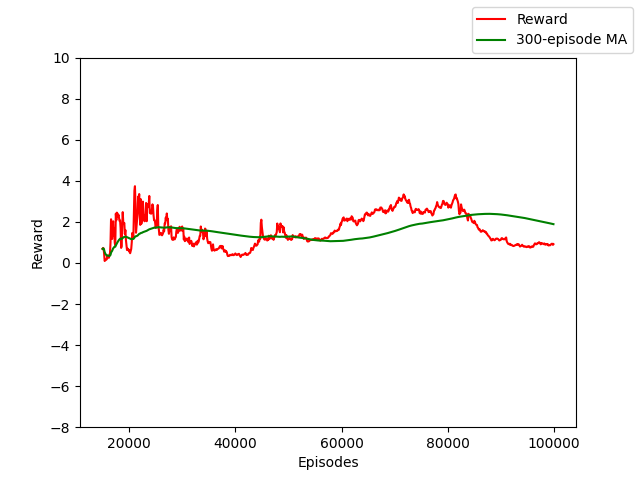
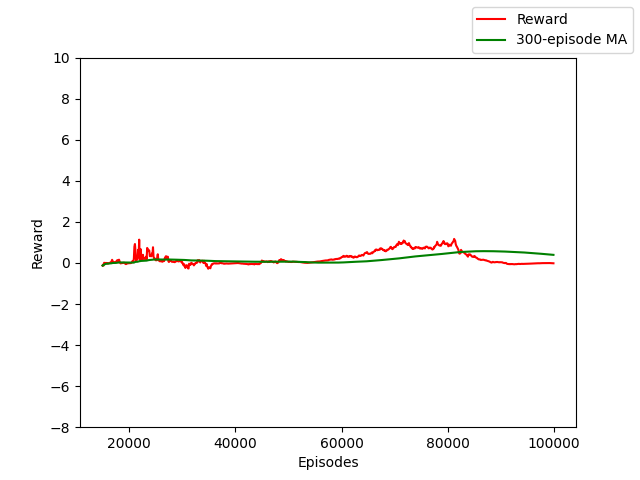
add block invalid penalty

Changed region(s): [[0.1562, 0.375, 0.875, 0.5625]]

diff --git a/ftl/nand/nand_controller.py b/ftl/nand/nand_controller.py
@@ -1,6 +1,6 @@
 from libs.logs import PrintLog
 from .block import Block, BlockType
-from libs.distribution import MultiplyRewardFunction
+from libs.distribution import MultiplyRewardFunction, MultiplyPenalty
 from collections import deque, Counter
 from tqdm import tqdm
 from dotenv import load_dotenv
@@ -14,6 +14,7 @@ NUMS_OF_PAGE_IN_BLOCK = int(os.getenv('NUMS_OF_PAGE_IN_BLOCK'))
 ACTIVE_GC_WAF_FULL_RATIO = float(os.getenv('ACTIVE_GC_WAF_FULL_RATIO'))
 MA_PERIOD = int(os.getenv('MA_PERIOD'))
 CHANGE_RATIO_ALPHA = float(os.getenv('CHANGE_RATIO_ALPHA'))
+COUNT_PENALTY = bool(int(os.getenv('COUNT_PENALTY')))
 
 class RewardRecorder:
     def __init__(self):
@@ -154,7 +155,10 @@ class NandController:
         for blockIndex in blockIndexes:
             waf = self.blocks[blockIndex].GetTempWAF()
             tempWAFs.append(waf)
-            rewards.append(MultiplyRewardFunction(waf))
+            reward = MultiplyRewardFunction(waf)
+            if COUNT_PENALTY:
+                reward = MultiplyPenalty(reward, self.blocks[blockIndex].penaltyCount) 
+            rewards.append(reward)
         waf = 1.5
         reward = 0
         if len(tempWAFs) != 0: 
@@ -167,6 +171,11 @@ class NandController:
     def UpdateBlockWAFDistribution(self, blockIndexes):
         tempInvalidNums = [str(round((2 - (self.blocks[blockIndex].invalidPage / NUMS_OF_PAGE_IN_BLOCK)), 2)) for blockIndex in blockIndexes]
         self.distributionCounter.update(tempInvalidNums)
+
+    # 更新現在所有已滿的block的penalty count
+    def UpdateBlockPenaltyCount(self, blockIndexes):
+        for blockIndex in blockIndexes:
+            self.blocks[blockIndex].UpdatePenaltyCount()
 
     # 更新目前的reward資訊
     def UpdateReward(self, reward):
@@ -181,6 +190,7 @@ class NandController:
         # 取得所有寫滿的blockIndex
         fullBlockIndexes = [item for i, item in enumerate(range(BLOCK_NUM)) if i not in self.freeBlockIndexes]
         self.UpdateBlockWAFDistribution(fullBlockIndexes)
+        self.UpdateBlockPenaltyCount((fullBlockIndexes))
         reward, waf = self.GetRewardAndWAF(fullBlockIndexes)
         self.UpdateReward(reward)
         self.UpdateWaf(waf)

diff --git a/main.py b/main.py
@@ -15,7 +15,7 @@ WAF_DISTRIBUTION_RESULT = os.getenv('WAF_DISTRIBUTION_RESULT')
 SIMULATE_PROGRESS_RESULT = os.getenv('SIMULATE_PROGRESS_RESULT')
 CHANGE_RATIO_PROGRESS_RESULT = os.getenv('CHANGE_RATIO_PROGRESS_RESULT')
 MA_PERIOD = int(os.getenv('MA_PERIOD'))
-CHANGE_RATIO_REWARD = bool(os.getenv('CHANGE_RATIO_REWARD'))
+CHANGE_RATIO_REWARD = bool(int(os.getenv('CHANGE_RATIO_REWARD')))
 
 def strategy(strategyType):
     hostInterface = HostInterface()
@@ -35,7 +35,8 @@ def strategy(strategyType):
     history.ShowBlockWAFDistribution(f'{WAF_DISTRIBUTION_RESULT}/{strategyType}.png', hostInterface.GetDistributionCounter())
     history.ShowRewardAndWafHistory(f'{SIMULATE_PROGRESS_RESULT}/{strategyType}.png')
     history.ShowGCDistribution(f'{GC_DISTRIBUTION_RESULT}/{strategyType}.png', hostInterface.GetGCSuccessEpisodes())
-    history.ShowChangeRatioReward(f'{CHANGE_RATIO_PROGRESS_RESULT}/{strategyType}.png')
+    if CHANGE_RATIO_REWARD:
+        history.ShowChangeRatioReward(f'{CHANGE_RATIO_PROGRESS_RESULT}/{strategyType}.png')
 
 def main():
     strategyTypes = STRATEGY_TYPES.split(',')

diff --git a/libs/distribution.py b/libs/distribution.py
@@ -1,6 +1,7 @@
 import numpy as np
 from dotenv import load_dotenv
 import os
+import math
 load_dotenv()
 
 ESTIMATED_BITS = int(os.getenv('ESTIMATED_BITS'))
@@ -9,6 +10,8 @@ EPSILON = float(os.getenv('EPSILON'))
 EPSILON_RIGHT = float(os.getenv('EPSILON_RIGHT'))
 EPSILON_MIN = float(os.getenv('EPSILON_MIN'))
 EPSILON_DECAY = float(os.getenv('EPSILON_DECAY'))
+
+PENALTY_ALPHA = float(os.getenv('PENALTY_ALPHA'))
 
 delta = EPSILON - EPSILON_MIN
 reward_function = [EPSILON_MIN + delta * np.exp(-i / EPSILON_DECAY) for i in range(N//2)]
@@ -19,5 +22,11 @@ reward_function.extend(right)
 
 def MultiplyRewardFunction(waf):
     index = int(waf * N) - N - 1
-    # return waf * reward_function[index]
-    return reward_function[index]
+    reward = reward_function[index] 
+    return reward
+
+def MultiplyPenalty(reward, penaltyCount):
+    # original 
+    # return reward * (1 / (1 + PENALTY_ALPHA * penaltyCount))
+    # log
+    return reward * (1 / (1 + PENALTY_ALPHA * math.log(1 + penaltyCount)))

diff --git a/ftl/nand/block.py b/ftl/nand/block.py
@@ -5,6 +5,7 @@ import os
 load_dotenv()
 
 NUMS_OF_PAGE_IN_BLOCK = int(os.getenv('NUMS_OF_PAGE_IN_BLOCK'))
+COUNT_RATIO = float(os.getenv('COUNT_RATIO'))
 
 class BlockType(enum.Enum):
     NONE = 1
@@ -18,11 +19,13 @@ class Block:
         self.invalidPage = 0
         self.currentPageIndex = 0
         self.type = BlockType.NONE
+        self.penaltyCount = 0
 
     def Reset(self):
         self.invalidPage = 0
         self.currentPageIndex = 0
         self.type = BlockType.NONE
+        self.penaltyCount = 0
         for page in self.pages:
             page.Reset()
 
@@ -57,6 +60,10 @@ class Block:
 
     def Erase(self):
         self.Reset()
+
+    def UpdatePenaltyCount(self):
+        if 1 - (self.invalidPage / NUMS_OF_PAGE_IN_BLOCK) <= COUNT_RATIO:
+            self.penaltyCount += 1
 
     def GetTempWAF(self):
         return (2 * NUMS_OF_PAGE_IN_BLOCK - self.invalidPage) / NUMS_OF_PAGE_IN_BLOCK

diff --git a/host/host_interface.py b/host/host_interface.py
@@ -7,7 +7,7 @@ load_dotenv()
 TRACE_PATH = os.getenv('TRACE_PATH')
 TRACE_LENGTH = int(os.getenv('TRACE_LENGTH'))
 
-class HostInterface:
+class HostInterface: 
     def __init__(self):
         #self.hostRequestQueue = HostRequestQueue()
         self.episode = 0
